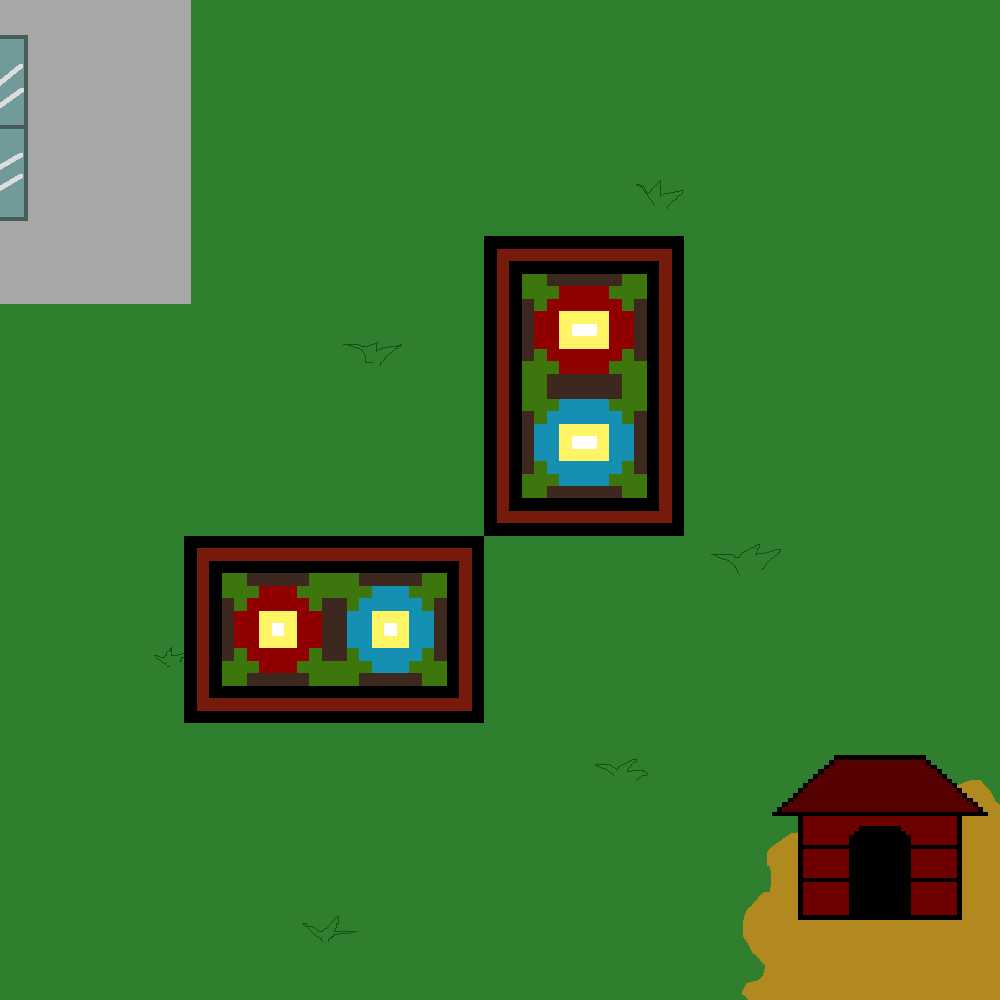
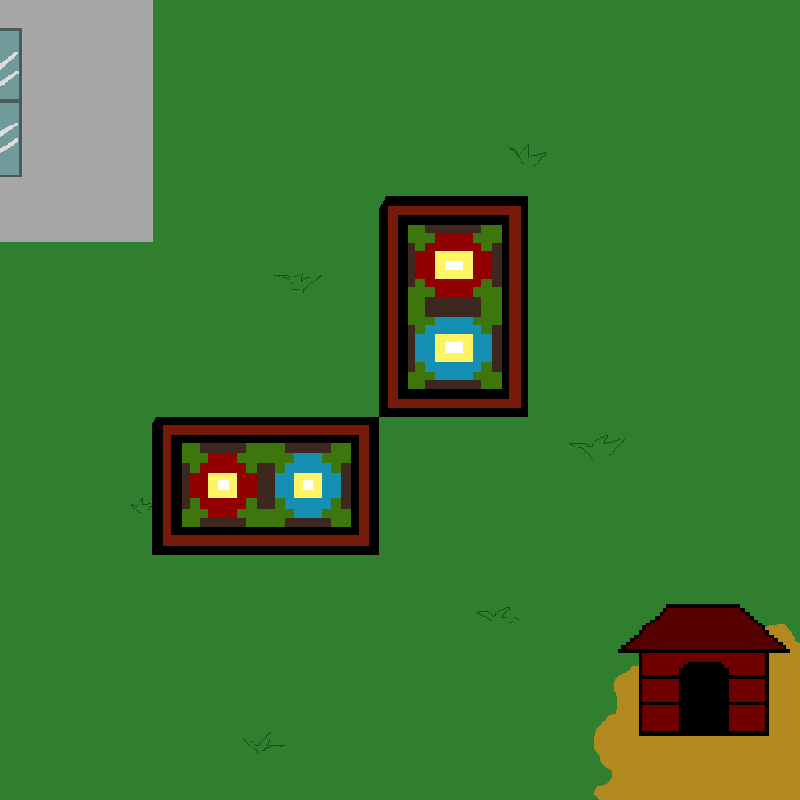
update

diff --git a/AvoiderStarter backup.py b/AvoiderStarter backup.py
@@ -37,7 +37,7 @@ def main():
     # Get a font
     myfont = pygame.font.SysFont("monospace", 24)
 
-    screen = pygame.display.set_mode((1000,1000))
+    screen = pygame.display.set_mode((800,800))
 
     #hero is facing
     is_facing_right = True
